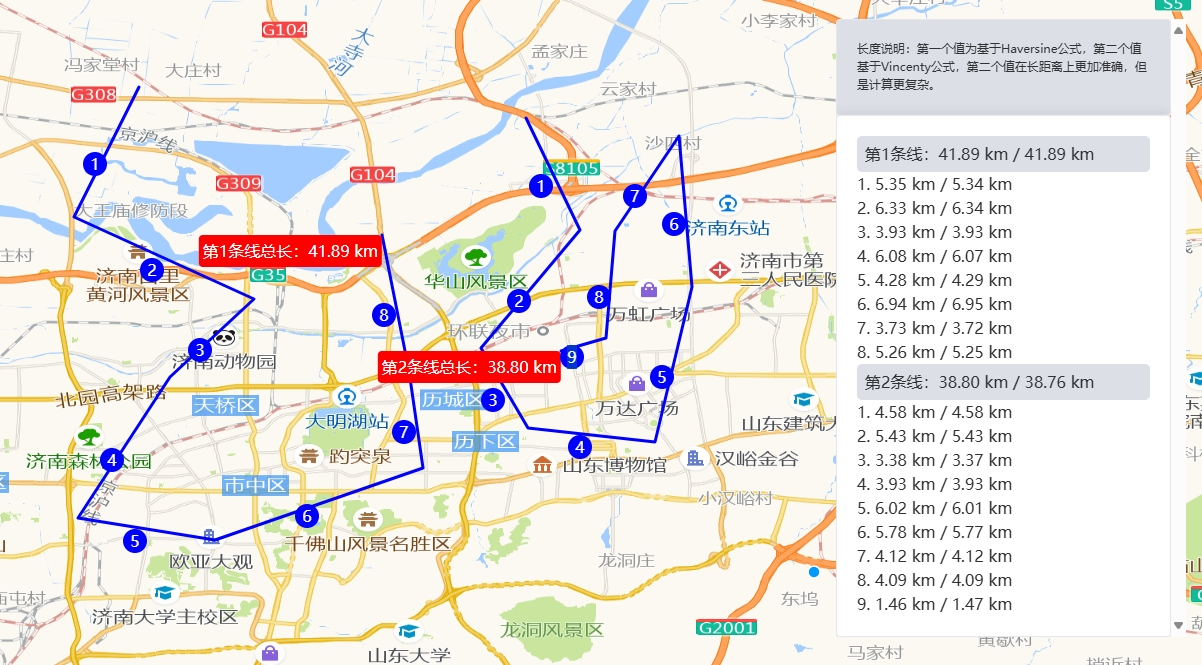
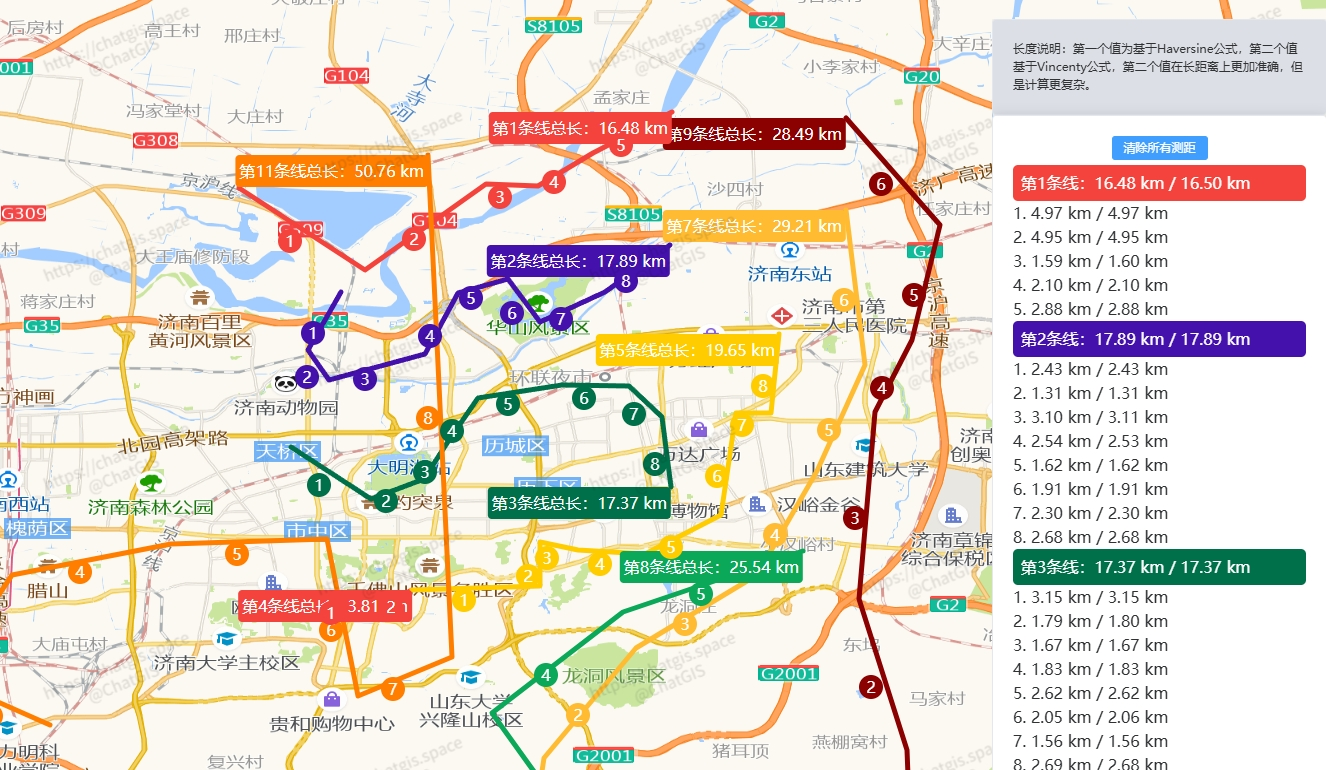
v1.15.3 fix measure color

diff --git a/src/views/openlayers/MeasureLength.vue b/src/views/openlayers/MeasureLength.vue
@@ -20,7 +20,7 @@
             清除所有测距
           </el-button>
           <div v-for="(line, index) of lines" class="line-item">
-            <div class="line-header">
+            <div class="line-header" :style="{ backgroundColor: line.color }">
               <span
                 >第{{ index + 1 }}条线：{{ line.total }} /
                 {{ line.totalPlus }}</span
@@ -65,13 +65,7 @@ const baseLayer = new TileLayer({
 })
 const drawSource = new VectorSource()
 const drawLayer = new VectorLayer({
-  source: drawSource,
-  style: new Style({
-    stroke: new Stroke({
-      color: 'blue',
-      width: 3
-    })
-  })
+  source: drawSource
 })
 let drawInteraction = new Draw({
   source: drawSource,
@@ -99,6 +93,7 @@ const handleDrawStart = () => {
   drawInteraction.on('drawstart', (evt) => {
     const line = {
       total: 0,
+      color: huanyu.getRandomColorFromTheme('logo'),
       totalPlus: 0,
       sections: [],
       sectionsPlus: []
@@ -126,7 +121,8 @@ const handleDrawStart = () => {
         createOverlay(
           lines.value[lastIndexLines].sections.length,
           sectionCenter,
-          1
+          1,
+          lines.value[lastIndexLines].color
         )
         setTotalDistance()
       }
@@ -140,10 +136,18 @@ const handleDrawEnd = () => {
   drawInteraction.on('drawend', (evt) => {
     setTotalDistance()
     const lastIndexLines = lines.value.length - 1
+    const color = lines.value[lastIndexLines].color
+    const style = new Style({
+      stroke: new Stroke({
+        color: color,
+        width: 5
+      })
+    })
+    evt.feature.setStyle(style)
     const lineCoordinates = evt.feature.getGeometry().getCoordinates()
     const lastCoordinate = lineCoordinates[lineCoordinates.length - 1]
     const text = `第${lines.value.length}条线总长：${lines.value[lastIndexLines].total}`
-    createOverlay(text, lastCoordinate, 2)
+    createOverlay(text, lastCoordinate, 2, lines.value[lastIndexLines].color)
     sectionOriginDistances.length = 0
     sectionOriginDistancesPlus.length = 0
   })
@@ -174,9 +178,9 @@ const formatDistance = (distance) => {
  * @param position 弹框位置
  * @param type 弹框类型
  */
-const createOverlay = (text, position, type) => {
+const createOverlay = (text, position, type, color) => {
   const ele = document.createElement('div')
-  ele.className = 'measure-popup-item'
+  ele.style = 'background-color: ' + color
   if (type == 1) {
     ele.className = 'measure-popup-item'
   } else if (type == 2) {
@@ -218,7 +222,7 @@ const setTotalDistance = () => {
   text-align: left;
 }
 .line-header {
-  background-color: var(--el-border-color);
+  color: white;
   border-radius: 5px;
   padding: 6px 8px;
 }
@@ -257,7 +261,6 @@ const setTotalDistance = () => {
 }
 .measure-total {
   width: auto;
-  background-color: red;
   height: 24px;
   border-radius: 4px;
   color: white;
